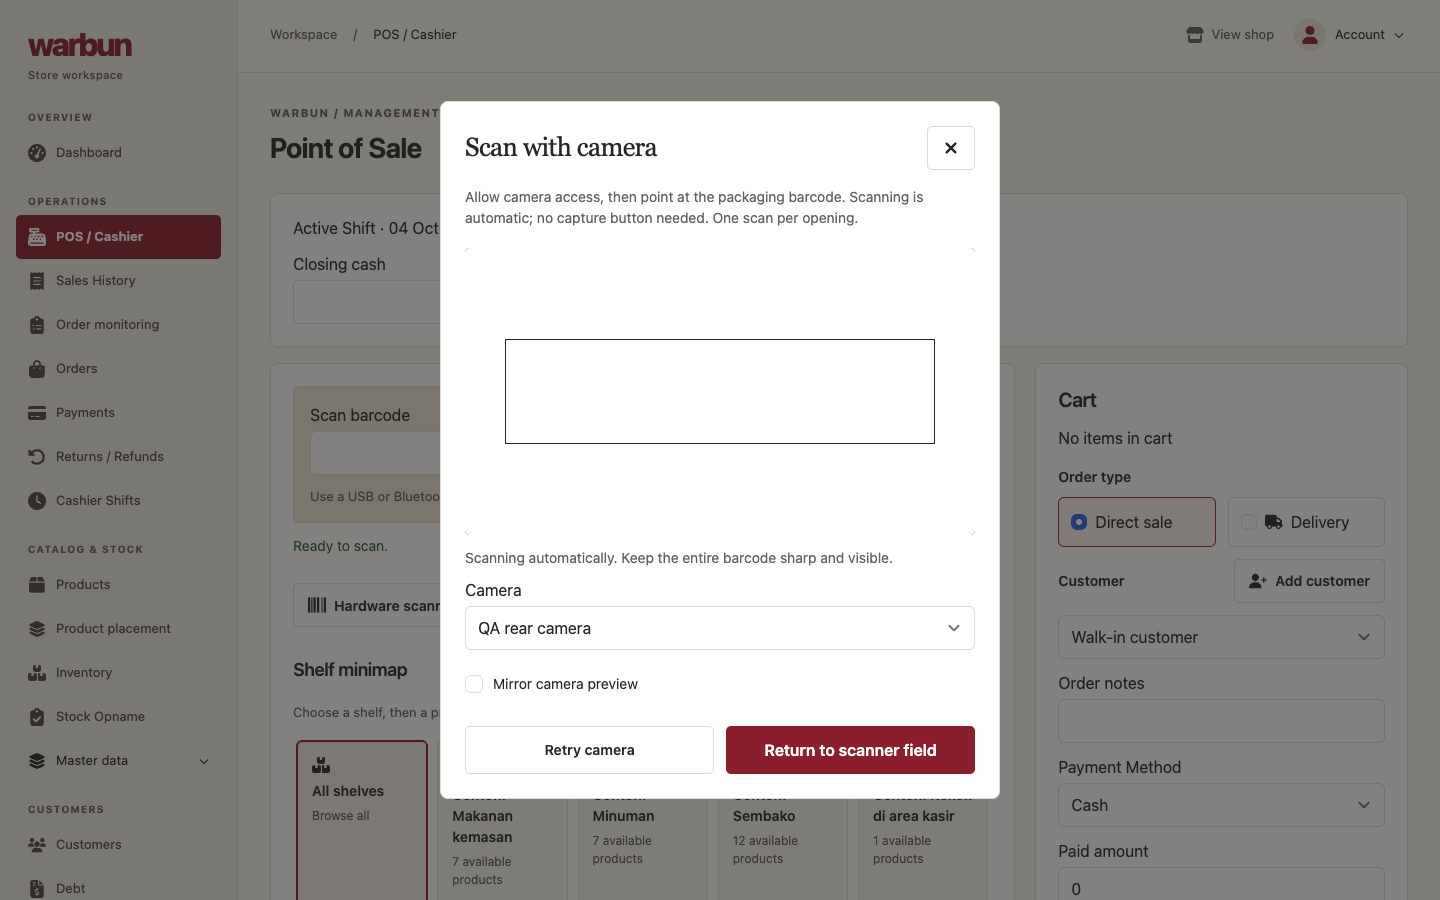
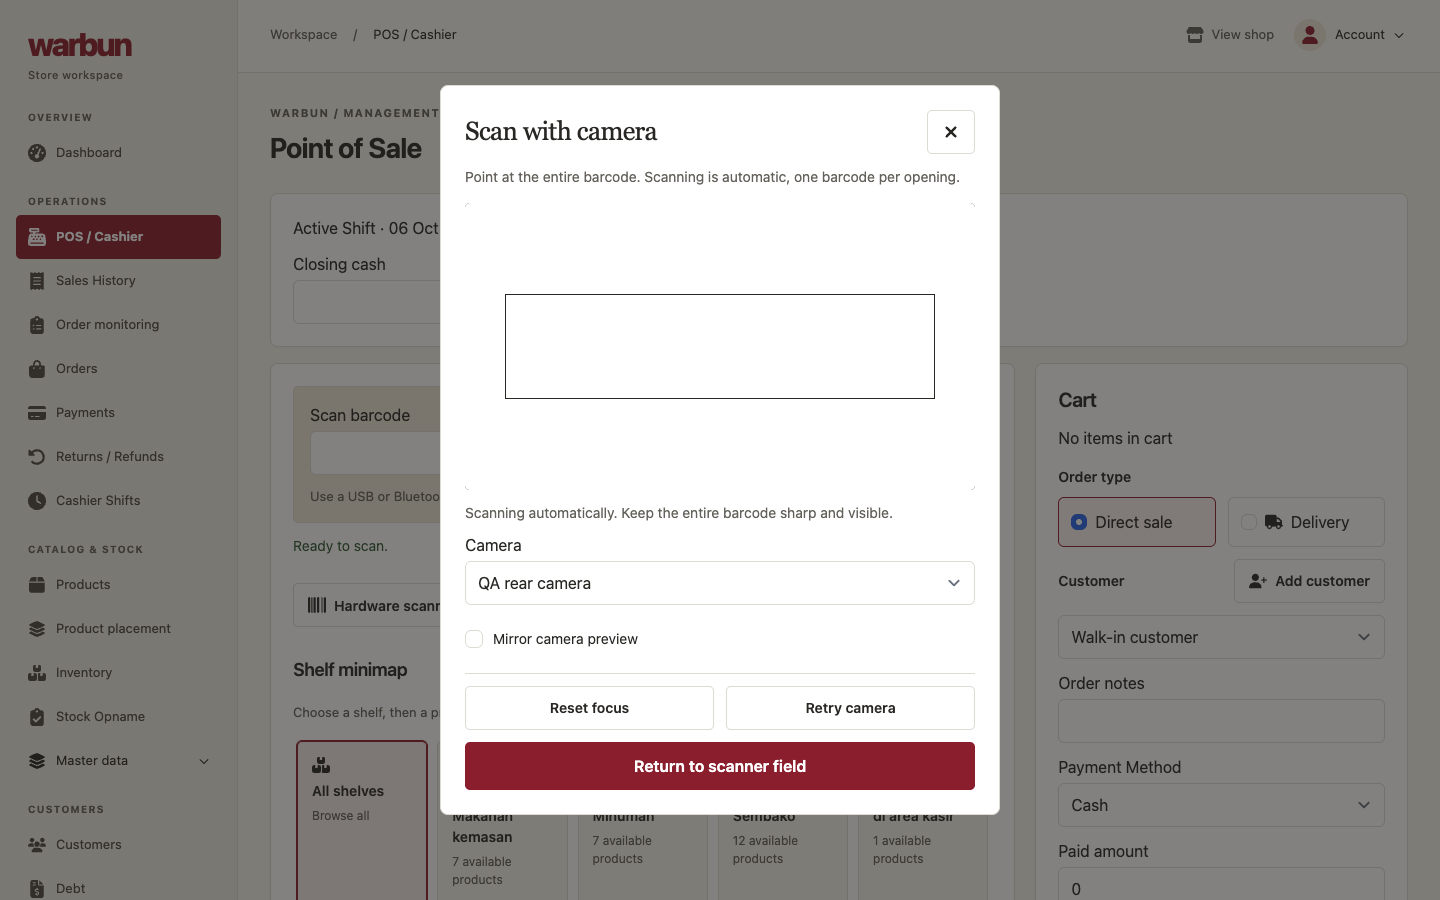
Add camera focus reset and portrait-aware scanner dialog

Changed region(s): [[0.2812, 0.7467, 0.7188, 0.9333], [0.2812, 0.0933, 0.7188, 0.2489], [0.3125, 0.56, 0.625, 0.7156]]

diff --git a/resources/js/barcode-camera.js b/resources/js/barcode-camera.js
@@ -6,6 +6,7 @@ if (dialog) {
     const error = document.getElementById('barcodeCameraError');
     const devices = document.getElementById('barcodeCameraDevice');
     const retry = document.getElementById('retryBarcodeCamera');
+    const refocus = document.getElementById('refocusBarcodeCamera');
     const mirror = document.getElementById('barcodeCameraMirror');
     const previewContainer = dialog.querySelector('.barcode-camera-preview');
     const mirrorKey = 'warbun.camera.mirror';
@@ -24,6 +25,7 @@ if (dialog) {
 
     function stop() {
         version++;
+        refocus.disabled = true;
         clearTimeout(guidanceTimer);
         controls?.stop();
         controls = null;
@@ -45,16 +47,23 @@ if (dialog) {
         return labels.failed;
     }
 
-    async function start(deviceId = '') {
+    async function start(deviceId = '', refocusing = false) {
         stop();
         const attempt = version;
         // A delayed decoder must not clear the preview of a newer scan.
         const preview = video.cloneNode(false);
         preview.muted = true;
+        const fitPreview = () => {
+            if (attempt === version && preview.videoWidth && preview.videoHeight) {
+                previewContainer.style.setProperty('--camera-ratio', preview.videoWidth / preview.videoHeight);
+            }
+        };
+        preview.addEventListener('loadedmetadata', fitPreview);
+        preview.addEventListener('resize', fitPreview);
         video.replaceWith(preview);
         video = preview;
         let detected = false;
-        status.textContent = labels.permission;
+        status.textContent = refocusing ? labels.refocusing : labels.permission;
         error.textContent = '';
         devices.disabled = true;
         retry.disabled = true;
@@ -99,6 +108,8 @@ if (dialog) {
             });
             if (attempt !== version || !dialog.open) { scanning.stop(); return; }
             controls = scanning;
+            fitPreview();
+            refocus.disabled = false;
             status.textContent = labels.scanning;
             guidanceTimer = setTimeout(() => {
                 if (attempt === version && dialog.open && !detected) status.textContent = labels.guidance;
@@ -130,6 +141,10 @@ if (dialog) {
     }));
     document.querySelectorAll('[data-barcode-focus]').forEach(button=>button.addEventListener('click', ()=>document.getElementById(button.dataset.barcodeFocus)?.focus()));
     retry.addEventListener('click', ()=>start(devices.value));
+    refocus.addEventListener('click', () => {
+        const deviceId = stream?.getVideoTracks()[0]?.getSettings().deviceId || devices.value;
+        start(deviceId, true);
+    });
     devices.addEventListener('change', ()=>start(devices.value));
     document.getElementById('closeBarcodeCamera').addEventListener('click', finish);
     document.getElementById('cancelBarcodeCamera').addEventListener('click', ()=> {

diff --git a/resources/css/app.css b/resources/css/app.css
@@ -4,15 +4,21 @@
 .barcode-scan-actions { display: flex; flex-wrap: wrap; gap: 10px; margin-block: 12px; }
 .barcode-scan-actions .button-secondary { min-height: 44px; gap: 8px; }
 .pos-customer-dialog.barcode-camera-dialog { width: min(560px,calc(100% - 32px)); }
-.barcode-camera-preview { position: relative; margin-block: 20px 12px; background: #282724; border-radius: 5px; overflow: hidden; aspect-ratio: 16/9; }
+.barcode-camera-dialog[open] { display: flex; flex-direction: column; max-height: calc(100dvh - 24px); overflow: hidden; }
+.barcode-camera-dialog .pos-customer-heading { flex-shrink: 0; padding-bottom: 12px; }
+.barcode-camera-dialog .pos-customer-heading button { flex-shrink: 0; }
+.barcode-camera-body { min-height: 0; overflow-y: auto; overscroll-behavior: contain; padding-inline: 4px; margin-inline: -4px; }
+.barcode-camera-body > p { font-size: 14px; color: var(--muted); }
+.barcode-camera-body #barcodeCameraError { color: #b91c1c; }
+.barcode-camera-preview { --camera-ratio: 1.777778; position: relative; margin: 16px auto 12px; background: #282724; border-radius: 5px; overflow: hidden; width: min(100%,calc(min(55dvh,480px) * var(--camera-ratio))); aspect-ratio: var(--camera-ratio); flex-shrink: 0; }
 .barcode-camera-preview video { display: block; width: 100%; height: 100%; object-fit: contain; }
 .barcode-camera-preview.is-mirrored video { transform: scaleX(-1); }
 .barcode-camera-mirror { display: flex; align-items: center; gap: 10px; min-height: 44px; margin-top: 12px; font-size: 14px; cursor: pointer; }
 .barcode-camera-mirror input { width: 18px; height: 18px; min-height: 18px; flex-shrink: 0; accent-color: #8b1e2d; }
 .barcode-camera-guide { position: absolute; inset: 32% 8%; border: 2px solid white; outline: 1px solid #282724; pointer-events: none; }
 .barcode-camera-dialog #barcodeCameraStatus, .barcode-camera-dialog #barcodeCameraError { margin-block: 10px; font-size: 14px; }
-.barcode-camera-footer { display: flex; flex-wrap: wrap; gap: 12px; margin-top: 20px; }
-.barcode-camera-footer button { flex: 1 1 180px; }
+.barcode-camera-footer { display: grid; grid-template-columns: 1fr 1fr; gap: 12px; margin-top: 12px; padding-top: 12px; border-top: 1px solid var(--line); flex-shrink: 0; }
+.barcode-camera-footer #cancelBarcodeCamera { grid-column: 1/-1; }
 @media(max-width:639px) { .product-editor .grid { grid-template-columns: minmax(0,1fr); } .product-editor .flex { flex-wrap: wrap; } .barcode-scan-actions button { flex: 1 1 160px; } }
 @layer base {
     body { font-family: system-ui, sans-serif; }

diff --git a/resources/views/components/barcode-camera.blade.php b/resources/views/components/barcode-camera.blade.php
@@ -1,14 +1,17 @@
 <dialog id="barcodeCameraDialog" class="pos-customer-dialog barcode-camera-dialog" aria-labelledby="barcodeCameraTitle" aria-describedby="barcodeCameraHelp">
     <div class="pos-customer-heading"><h2 id="barcodeCameraTitle">{{ __('Scan with camera') }}</h2><button id="closeBarcodeCamera" type="button" class="button-secondary" aria-label="{{ __('Close camera') }}"><x-icon name="xmark" /></button></div>
-    <p id="barcodeCameraHelp">{{ __('Allow camera access, then point at the packaging barcode. Scanning is automatic; no capture button needed. One scan per opening.') }}</p>
+    <div class="barcode-camera-body">
+    <p id="barcodeCameraHelp">{{ __('Point at the entire barcode. Scanning is automatic, one barcode per opening.') }}</p>
     <div class="barcode-camera-preview"><video id="barcodeCameraVideo" autoplay muted playsinline aria-label="{{ __('Camera preview') }}"></video><span class="barcode-camera-guide" aria-hidden="true"></span></div>
     <p id="barcodeCameraStatus" role="status" aria-live="polite"></p><p id="barcodeCameraError" role="alert" class="text-red-700"></p>
     <label class="field">{{ __('Camera') }}<select id="barcodeCameraDevice" disabled><option value="">{{ __('Back camera preferred') }}</option></select></label>
     <label class="barcode-camera-mirror"><input id="barcodeCameraMirror" type="checkbox">{{ __('Mirror camera preview') }}</label>
-    <div class="barcode-camera-footer"><button id="retryBarcodeCamera" type="button" class="button-secondary">{{ __('Retry camera') }}</button><button id="cancelBarcodeCamera" type="button" class="button-primary">{{ __('Return to scanner field') }}</button></div>
+    </div>
+    <div class="barcode-camera-footer"><button id="refocusBarcodeCamera" type="button" class="button-secondary" disabled>{{ __('Reset focus') }}</button><button id="retryBarcodeCamera" type="button" class="button-secondary">{{ __('Retry camera') }}</button><button id="cancelBarcodeCamera" type="button" class="button-primary">{{ __('Return to scanner field') }}</button></div>
 </dialog>
 <script id="barcode-camera-config" type="application/json">{!! json_encode([
     'permission'=>__('Waiting for camera permission...'), 'scanning'=>__('Scanning automatically. Keep the entire barcode sharp and visible.'),
+    'refocusing'=>__('Restarting the selected camera to try focusing again...'),
     'guidance'=>__('Not read yet. Move the package slightly farther away until the bars look sharp, keep it flat, and avoid glare. Try the back camera or enter the barcode manually.'),
     'insecure'=>__('Camera scanning needs HTTPS or localhost. Use the hardware scanner or type the barcode on this connection.'),
     'unsupported'=>__('This browser cannot access a camera. Use the hardware scanner or type the barcode.'),

diff --git a/CAMERA_BARCODE_QA.md b/CAMERA_BARCODE_QA.md
@@ -4,13 +4,15 @@
 
 ## Bukti
 
+6 Oktober, update fokus/portrait: **18 skenario kamera PASS**. Fokus ulang memakai Enter, menghentikan track lama, membuka device yang sama, menjaga field/mirror dan membaca Code 128 dari stream portrait 720×1280. Capability fokus yang hilang serta constraint yang ditolak dimock; recovery tetap aktif tanpa error. Rasio elemen preview dibandingkan dengan rasio video asli; X/Fokus ulang/Retry/Kembali tetap di viewport pada 320×568, 375×667 dan 812×375. [Screenshot portrait](docs/qa/screenshots/camera-portrait-375.png) ditinjau; frame putih adalah fixture kosong. Matrix POS/create/edit lima lebar tetap PASS. Build, JS syntax, scoped Pint, Blade compilation dan diff check PASS. Ini Chrome dengan synthetic streams, **bukan uji iPhone/Safari fisik**; ketajaman lensa tidak dijamin. Preview 8080 dimulai ulang dengan database demo baru karena proses dan directory sementara sebelumnya sudah hilang; MySQL existing tidak disentuh.
+
 Update kasus scan tidak terbaca: **15 skenario kamera PASS**, termasuk barcode Code 128 berwarna biru pada bagian atas frame yang dibaca decoder production dan petunjuk setelah enam detik tanpa hasil, sementara kamera tetap berjalan. Request continuous focus diverifikasi dengan mock capability/constraint; tidak membuktikan autofocus webcam fisik. Ideal resolution ditingkatkan, tidak dijamin tersedia pada device. Build, JS syntax, scoped Pint dan diff check PASS; lima viewport tetap diuji. Baseline backend/receipt tidak diulang karena tidak ada perubahan logika server.
 
 Screenshot pengguna 544×415 diuji melalui [runner foto](scripts/qa-camera-photo.cjs), tanpa menyimpan foto ke repository. Decoder production tanpa maupun dengan TRY_HARDER **tidak membaca gambar tersebut**. Diagnosis awal juga mencoba crop, skala dan channel luminance melalui library, tanpa hasil. Blur/perspective/kemasan adalah kemungkinan dari gambar, bukan penyebab yang sudah terbukti. Perubahan ini memperluas pencarian dan memberi bantuan; bukan klaim foto atau webcam pengguna telah berhasil dibaca.
 
 Update mirror: **13 skenario kamera PASS** dijalankan ulang setelah perubahan, termasuk keyboard Space pada checkbox, preview horizontal terbalik tanpa request kamera baru, camera switch, pilihan tersimpan saat Retry/navigation, toggle off dan decoding Code 128/EAN-13 ketika mirror aktif. Lima lebar tetap tanpa overflow; build production, syntax JS, scoped Pint dan diff check PASS. Full backend suite 97/799 dan tujuh skenario checkout/receipt di bawah adalah baseline fitur kamera sebelumnya, tidak diulang untuk perubahan preview ini. Storage-blocked browser dan kamera fisik tidak diuji pada update ini.
 
-- [Runner kamera](scripts/qa-camera.cjs), [hasil](docs/qa/camera-results.json): **15 skenario PASS**. Chrome menerima synthetic `MediaStream` dari canvas, dengan barcode Code 128/EAN-13 valid. Decoder ZXing production sungguhan memproses frame video; hasil decode tidak dimock. Kasus ini tidak menguji webcam fisik.
+- [Runner kamera](scripts/qa-camera.cjs), [hasil](docs/qa/camera-results.json): **18 skenario PASS**. Chrome menerima synthetic `MediaStream` dari canvas, dengan barcode Code 128/EAN-13 valid. Decoder ZXing production sungguhan memproses frame video; hasil decode tidak dimock. Kasus ini tidak menguji webcam fisik.
 - Edit membaca Code 128 `0012345678905`, mempertahankan nol, tidak auto-save, menghentikan track lalu menyimpan lewat controller existing. Create membaca EAN-13 `5901234123457`; duplicate barcode ditolak server, barcode unique dapat disimpan. Hardware Enter pada form tidak submit.
 - Izin ditolak, kamera tidak ditemukan, kamera sibuk, Retry, preferensi belakang/no audio, pilihan device, Escape, izin yang selesai setelah Close, reopen saat inisialisasi video tertunda, dan backgrounding diuji dengan mock API kamera. Semua track yang diperoleh berakhir `ended` setelah penutupan/success.
 - POS memblokir kamera tanpa shift, memasukkan satu unit per pembukaan, mendukung pembukaan ulang dan scan keyboard pada lookup/keranjang yang sama. Barcode 404 menjaga quantity lama. Kamera tidak otomatis dibuka saat halaman dimuat; chunk decoder baru dimuat setelah permintaan kamera.
@@ -23,16 +25,16 @@ Update mirror: **13 skenario kamera PASS** dijalankan ulang setelah perubahan, t
 
 ## Anti-slop delivery gate
 
-Scope dua pilihan scan, dialog kamera, responsivitas editor produk dan tambahan icons. Direction retail Warbun existing, ENERGY 2 / RHYTHM 3 / MOTION 1.
+Scope dua pilihan scan, dialog kamera termasuk Fokus ulang/portrait/scroll-body/footer, responsivitas editor produk dan tambahan icons. Direction retail Warbun existing, ENERGY 2 / RHYTHM 3 / MOTION 1.
 
 - R-02 PASS: copy baru tanpa em dash.
-- R-03 PASS: tiga halaman/dialog pada lima lebar, document overflow false.
+- R-03 PASS: tiga halaman/dialog pada lima lebar, document overflow false; portrait dan viewport pendek/landscape menjaga heading/footer di layar.
 - R-17 PASS: tidak menambah statistik promosi; pilihan camera berasal dari enumerateDevices.
 - R-18 PASS: tidak ada testimonial.
 - R-23 PASS: opsi kamera/hardware eksplisit diminta; icon kamera/barcode berasal dari Font Awesome existing family, fixture video QA dijelaskan.
 - R-24 PASS: tidak menambah route/navigation baru; POS/create/edit nyata dibuka browser.
 - R-25 PASS: memakai pasangan CTA/teks existing dari DESIGN_SYSTEM.md; tidak menambah warna teks baru. Guide video memiliki garis putih dan outline charcoal untuk posisi barcode, bukan label teks.
-- R-26 PASS: hardware focus, open, device change, mirror on/off, Retry, Return, X/Escape, fill field, save/update dan POS lookup dicoba; bukan kontrol dummy.
+- R-26 PASS: hardware focus, open, device change, mirror on/off, Fokus ulang via Enter, Retry, Return, X/Escape, fill field, save/update dan POS lookup dicoba; bukan kontrol dummy.
 - R-27 PASS: permission wait/scanning, denied/missing/busy, insecure/unsupported dan barcode error punya feedback. Field/cart tetap dipertahankan.
 - R-28 PASS: tidak menambah FAQ.
 - R-32 PASS: native dialog/buttons/select/checkbox, label, status/alert, focus-visible existing; mirror dengan Space, Escape dan focus restoration diuji.

diff --git a/CAMERA_BARCODE.md b/CAMERA_BARCODE.md
@@ -18,6 +18,10 @@ Browser memerlukan secure context untuk kamera: **HTTPS**, atau **localhost/127.
 
 ## Preview yang dijalankan
 
+**Fokus ulang** tersedia setelah kamera aktif. Tombol menghentikan stream lama dan membuka kembali device yang sama, mencoba continuous autofocus jika capability tersedia. Mirror dan kolom/keranjang dipertahankan; scan kembali berjalan otomatis. Ini recovery kamera, bukan jaminan lensa akan fokus: browser/perangkat bisa tidak mengekspos kontrol fokus atau memiliki lensa dengan fokus tetap. Constraint yang ditolak tidak menggagalkan scan ([MDN applyConstraints](https://developer.mozilla.org/en-US/docs/Web/API/MediaStreamTrack/applyConstraints)).
+
+Preview memakai rasio dari videoWidth/videoHeight, diperbarui saat metadata atau ukuran video berubah. Seluruh frame ditampilkan dengan object-fit contain, termasuk portrait, tanpa bingkai melebar ke letterbox. Tinggi preview dibatasi viewport; isi dialog dapat digulir dan heading/footer tetap terlihat agar Fokus ulang, Coba lagi, Kembali dan X dapat dijangkau pada HP.
+
 Scanner meminta resolusi ideal 1920×1080 dan mencoba continuous autofocus hanya jika track menyatakan dukungan. Ini permintaan, bukan jaminan kualitas kamera. Decoder menggunakan `TRY_HARDER` untuk mencari lebih banyak baris daripada area tengah bawaan ([kode ZXing](https://github.com/zxing-js/library/blob/master/src/core/oned/OneDReader.ts)). Jika belum terbaca setelah enam detik, status memberi petunjuk fokus/jarak/pantulan; scan tetap berjalan. Barcode buram, berkerut, tertutup atau terpotong masih dapat gagal. Jauhkan kemasan sedikit hingga garis tajam, ratakan dan pilih kamera belakang bila tersedia; hardware/manual tetap dapat dipakai.
 
 Preview saat pengerjaan berjalan di `http://127.0.0.1:8080`, memakai SQLite demo terpisah di directory sementara `warbun-qa-preview-*`. Login `admin@warbun.local` atau `owner@warbun.local`, password `password`. `.env` dan MySQL operasional tidak diubah; MySQL lokal masih tidak tersedia. Preview sudah mempunyai dataset produk dan etalase contoh. Database/browser test memakai port 8765 dan database lain, sehingga transaksi QA tidak masuk preview pengguna.

diff --git a/DESIGN_SYSTEM.md b/DESIGN_SYSTEM.md
@@ -70,6 +70,8 @@ Font Awesome Free 6.7.2 Solid icons are served from a local SVG sprite. The shar
 
 ## Camera and hardware barcode scanning
 
+Portrait camera preview follows intrinsic video aspect ratio, with a viewport height cap and contain sizing to retain the full frame. The guide is inside that frame. A scrolling body separates camera/settings from a fixed dialog heading and action footer, keeping recovery/return reachable on short phone viewports. Reset focus is a labeled secondary action that reacquires the selected device; Retry remains permission/error recovery. Existing palette, 44px controls and ENERGY 2 / RHYTHM 3 / MOTION 1 continue without additional icons or animation.
+
 Scan recovery uses the existing live status instead of adding a capture button. After six seconds without a read, short distance/focus/glare advice replaces the initial message while video scanning continues. This makes a waiting scanner actionable without implying a blurry frame can always be decoded; no extra decorative controls or colors are introduced.
 
 The mirror checkbox lets operators choose a familiar preview orientation, especially on front-facing cameras. A native labeled 44px target supports touch and keyboard; it sits beside device controls, outside the video guide. Horizontal reflection applies only to the video preview, with no decorative animation or camera restart. The saved browser preference survives device changes and page navigation; help states that scanning is automatic so operators do not search for a capture button.

diff --git a/QA_REPORT.md b/QA_REPORT.md
@@ -1,5 +1,7 @@
 # Warbun — QA development
 
+6 October focus/portrait update: 18 camera browser scenarios PASS. Selected-device reset ends previous tracks, tolerates unavailable/rejected focus controls and preserves mirror/input. Portrait video retains intrinsic ratio; close/reset/retry/return stay visible at narrow and short landscape viewports. Build, Blade compilation, scoped Pint and syntax checks PASS. iPhone hardware/Safari not tested. Preview 8080 restarted with a new isolated demo DB after old temporary files disappeared. Evidence: [CAMERA_BARCODE_QA.md](CAMERA_BARCODE_QA.md).
+
 Latest CRUD action icons: [CRUD_ACTION_QA.md](CRUD_ACTION_QA.md). 15 browser scenarios PASS across ten indexes, two detail pages and shelf deletion, with rendered Font Awesome glyphs, translated accessible labels/tooltips, keyboard navigation, preserved confirmations and five viewport widths. Build, Blade compilation, scoped Pint, SVG validity and diff check PASS; backend tests not repeated for presentation-only changes.
 
 Latest scan recovery update: 15 synthetic-camera scenarios PASS, including blue off-center barcode and ongoing-scan guidance after six seconds. Conditional focus request uses mocked camera capabilities. Build, JS syntax, scoped Pint and responsive checks PASS. The user's still screenshot remains undecodable with both production configurations; live device resolution/focus is not verified. Evidence: [CAMERA_BARCODE_QA.md](CAMERA_BARCODE_QA.md).

diff --git a/tasklist.md b/tasklist.md
@@ -67,6 +67,8 @@ Source requirement: [PRD.md](PRD.md). Implementation decisions: [ARCHITECTURE.md
 
 ## Kamera barcode
 
+- [x] Fokus ulang melalui restart device terpilih; rasio portrait asli, isi modal scroll dan heading/footer tetap terlihat; recovery serta responsive video QA
+
 - [x] Pilihan hardware/kamera pada POS dan form tambah/edit produk
 - [x] Toggle mirror preview tersimpan, keyboard/device/retry/navigation dan deteksi otomatis saat mirror diuji
 - [x] Pencarian baris diperluas, request fokus kondisional dan guidance scan belum berhasil; 15 skenario kamera dan screenshot pengguna diuji dengan batas hasil terdokumentasi
